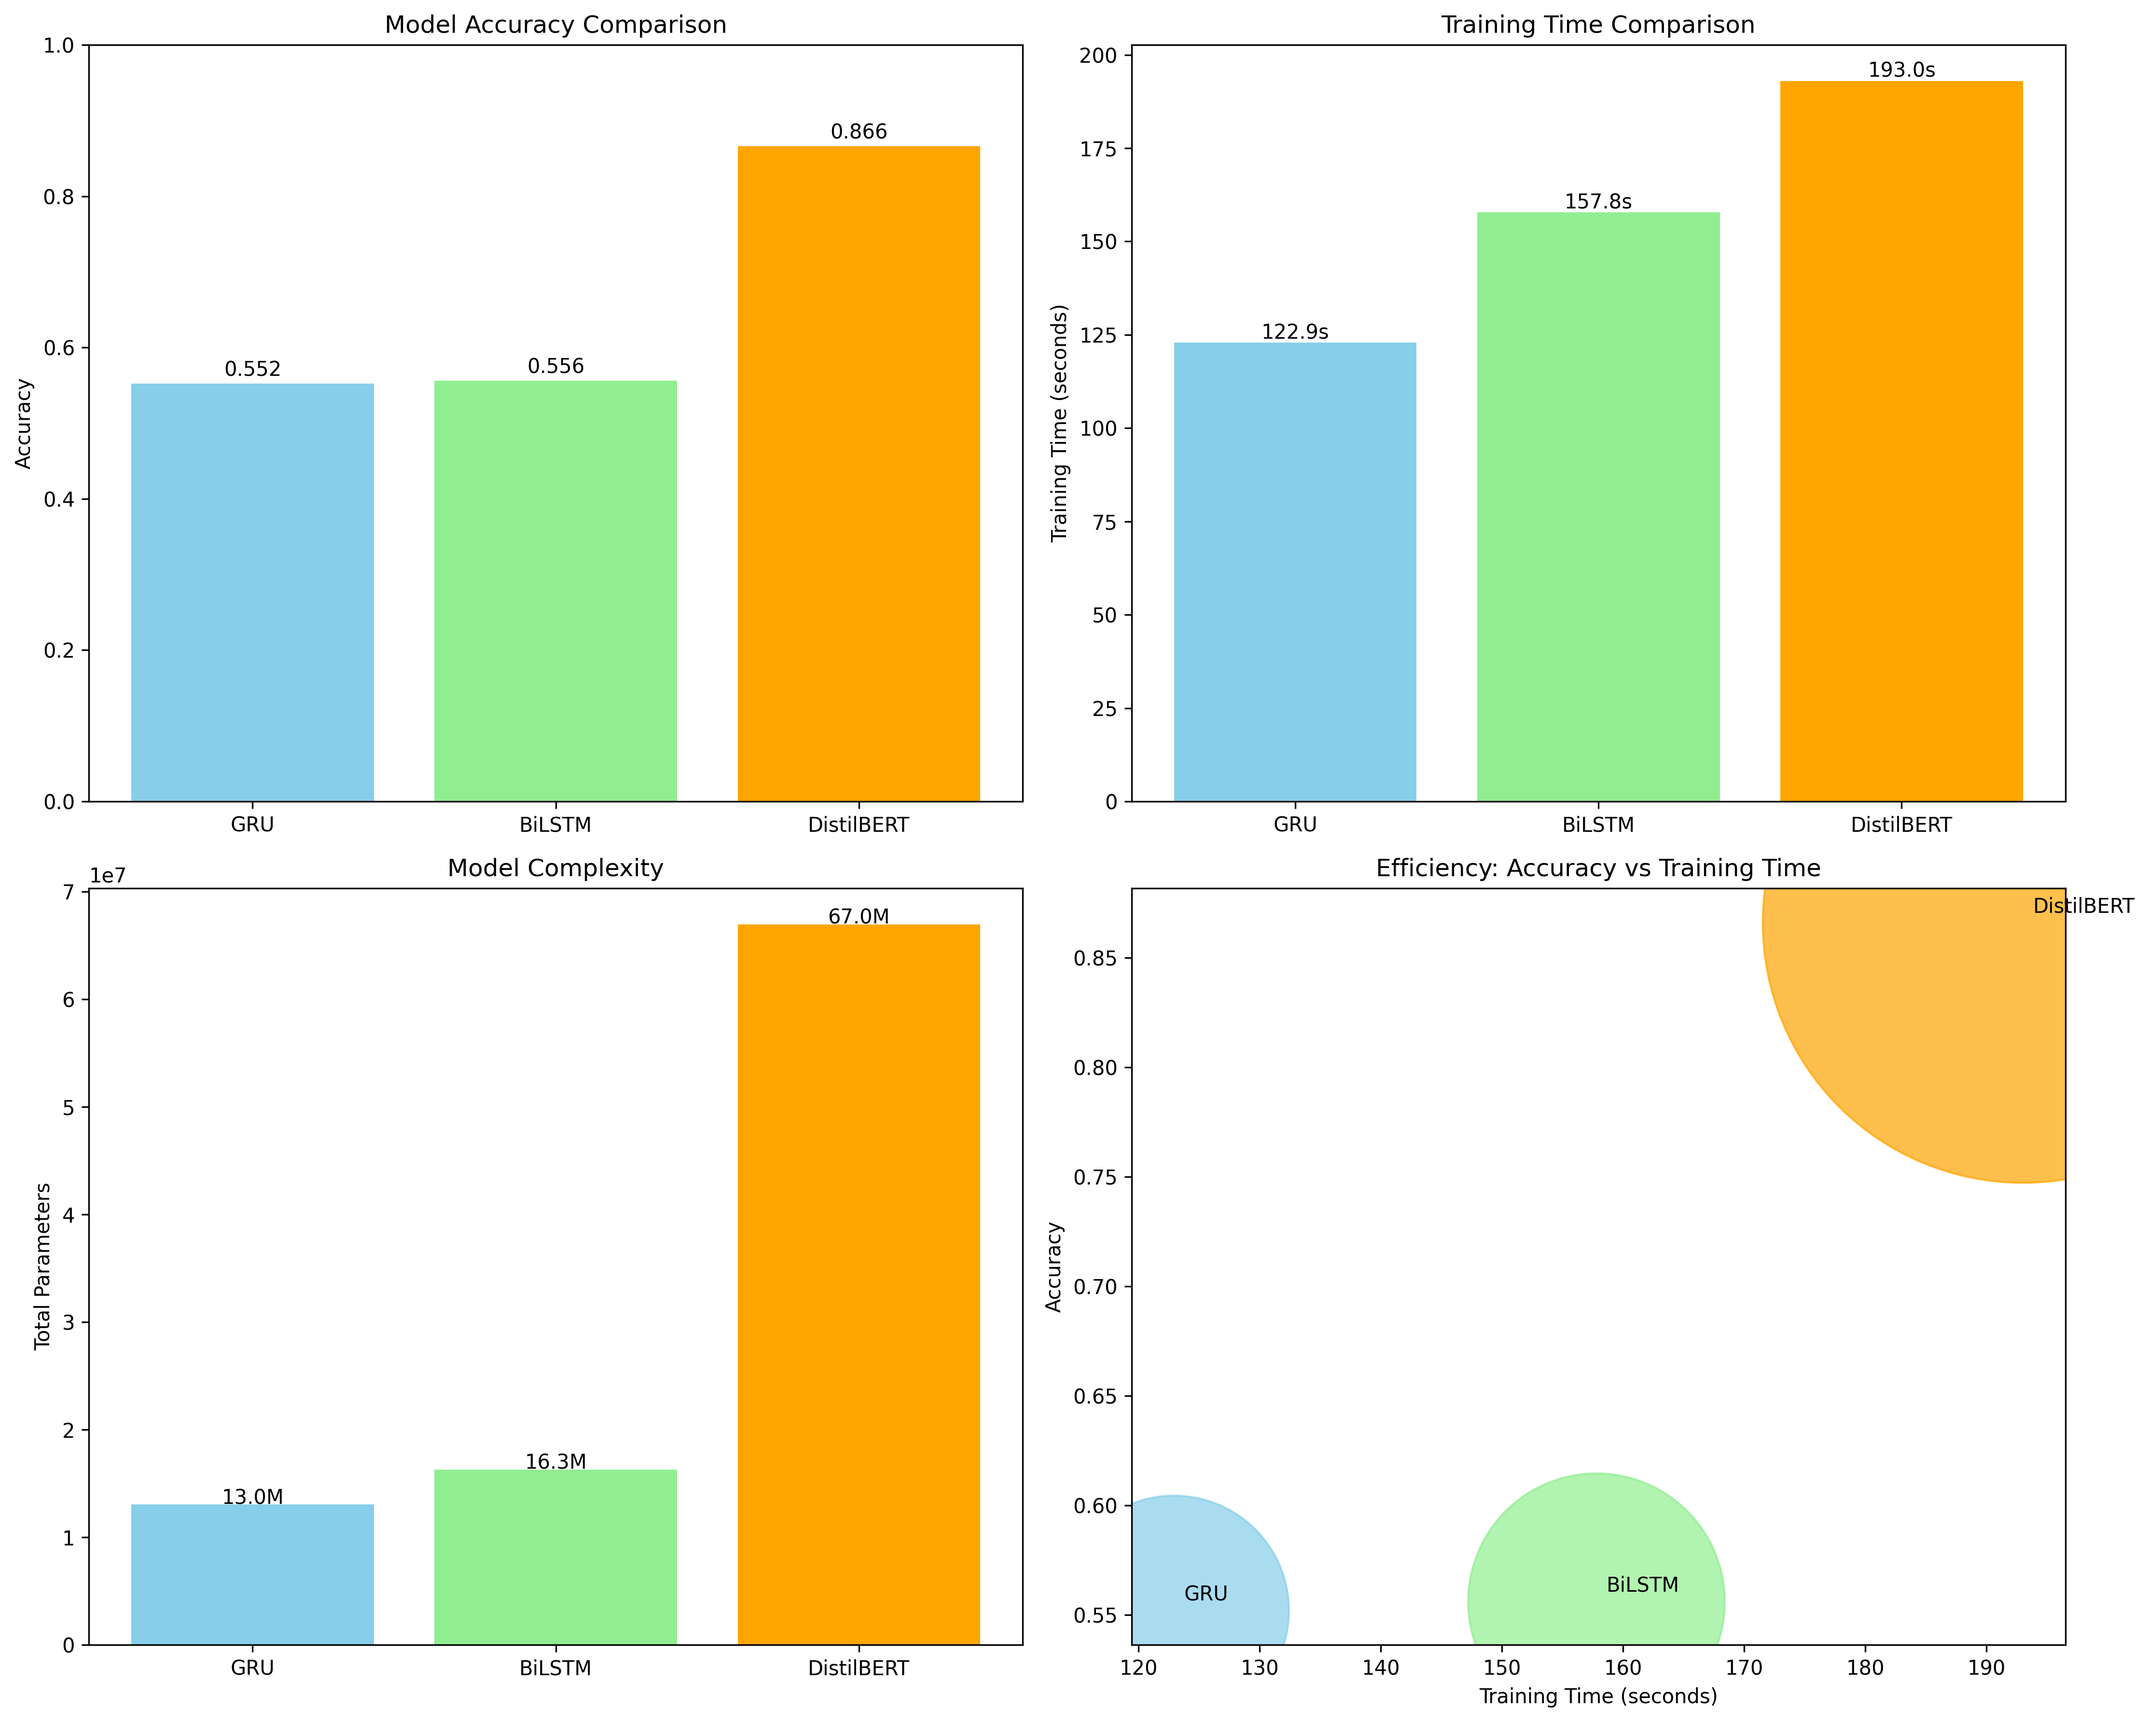
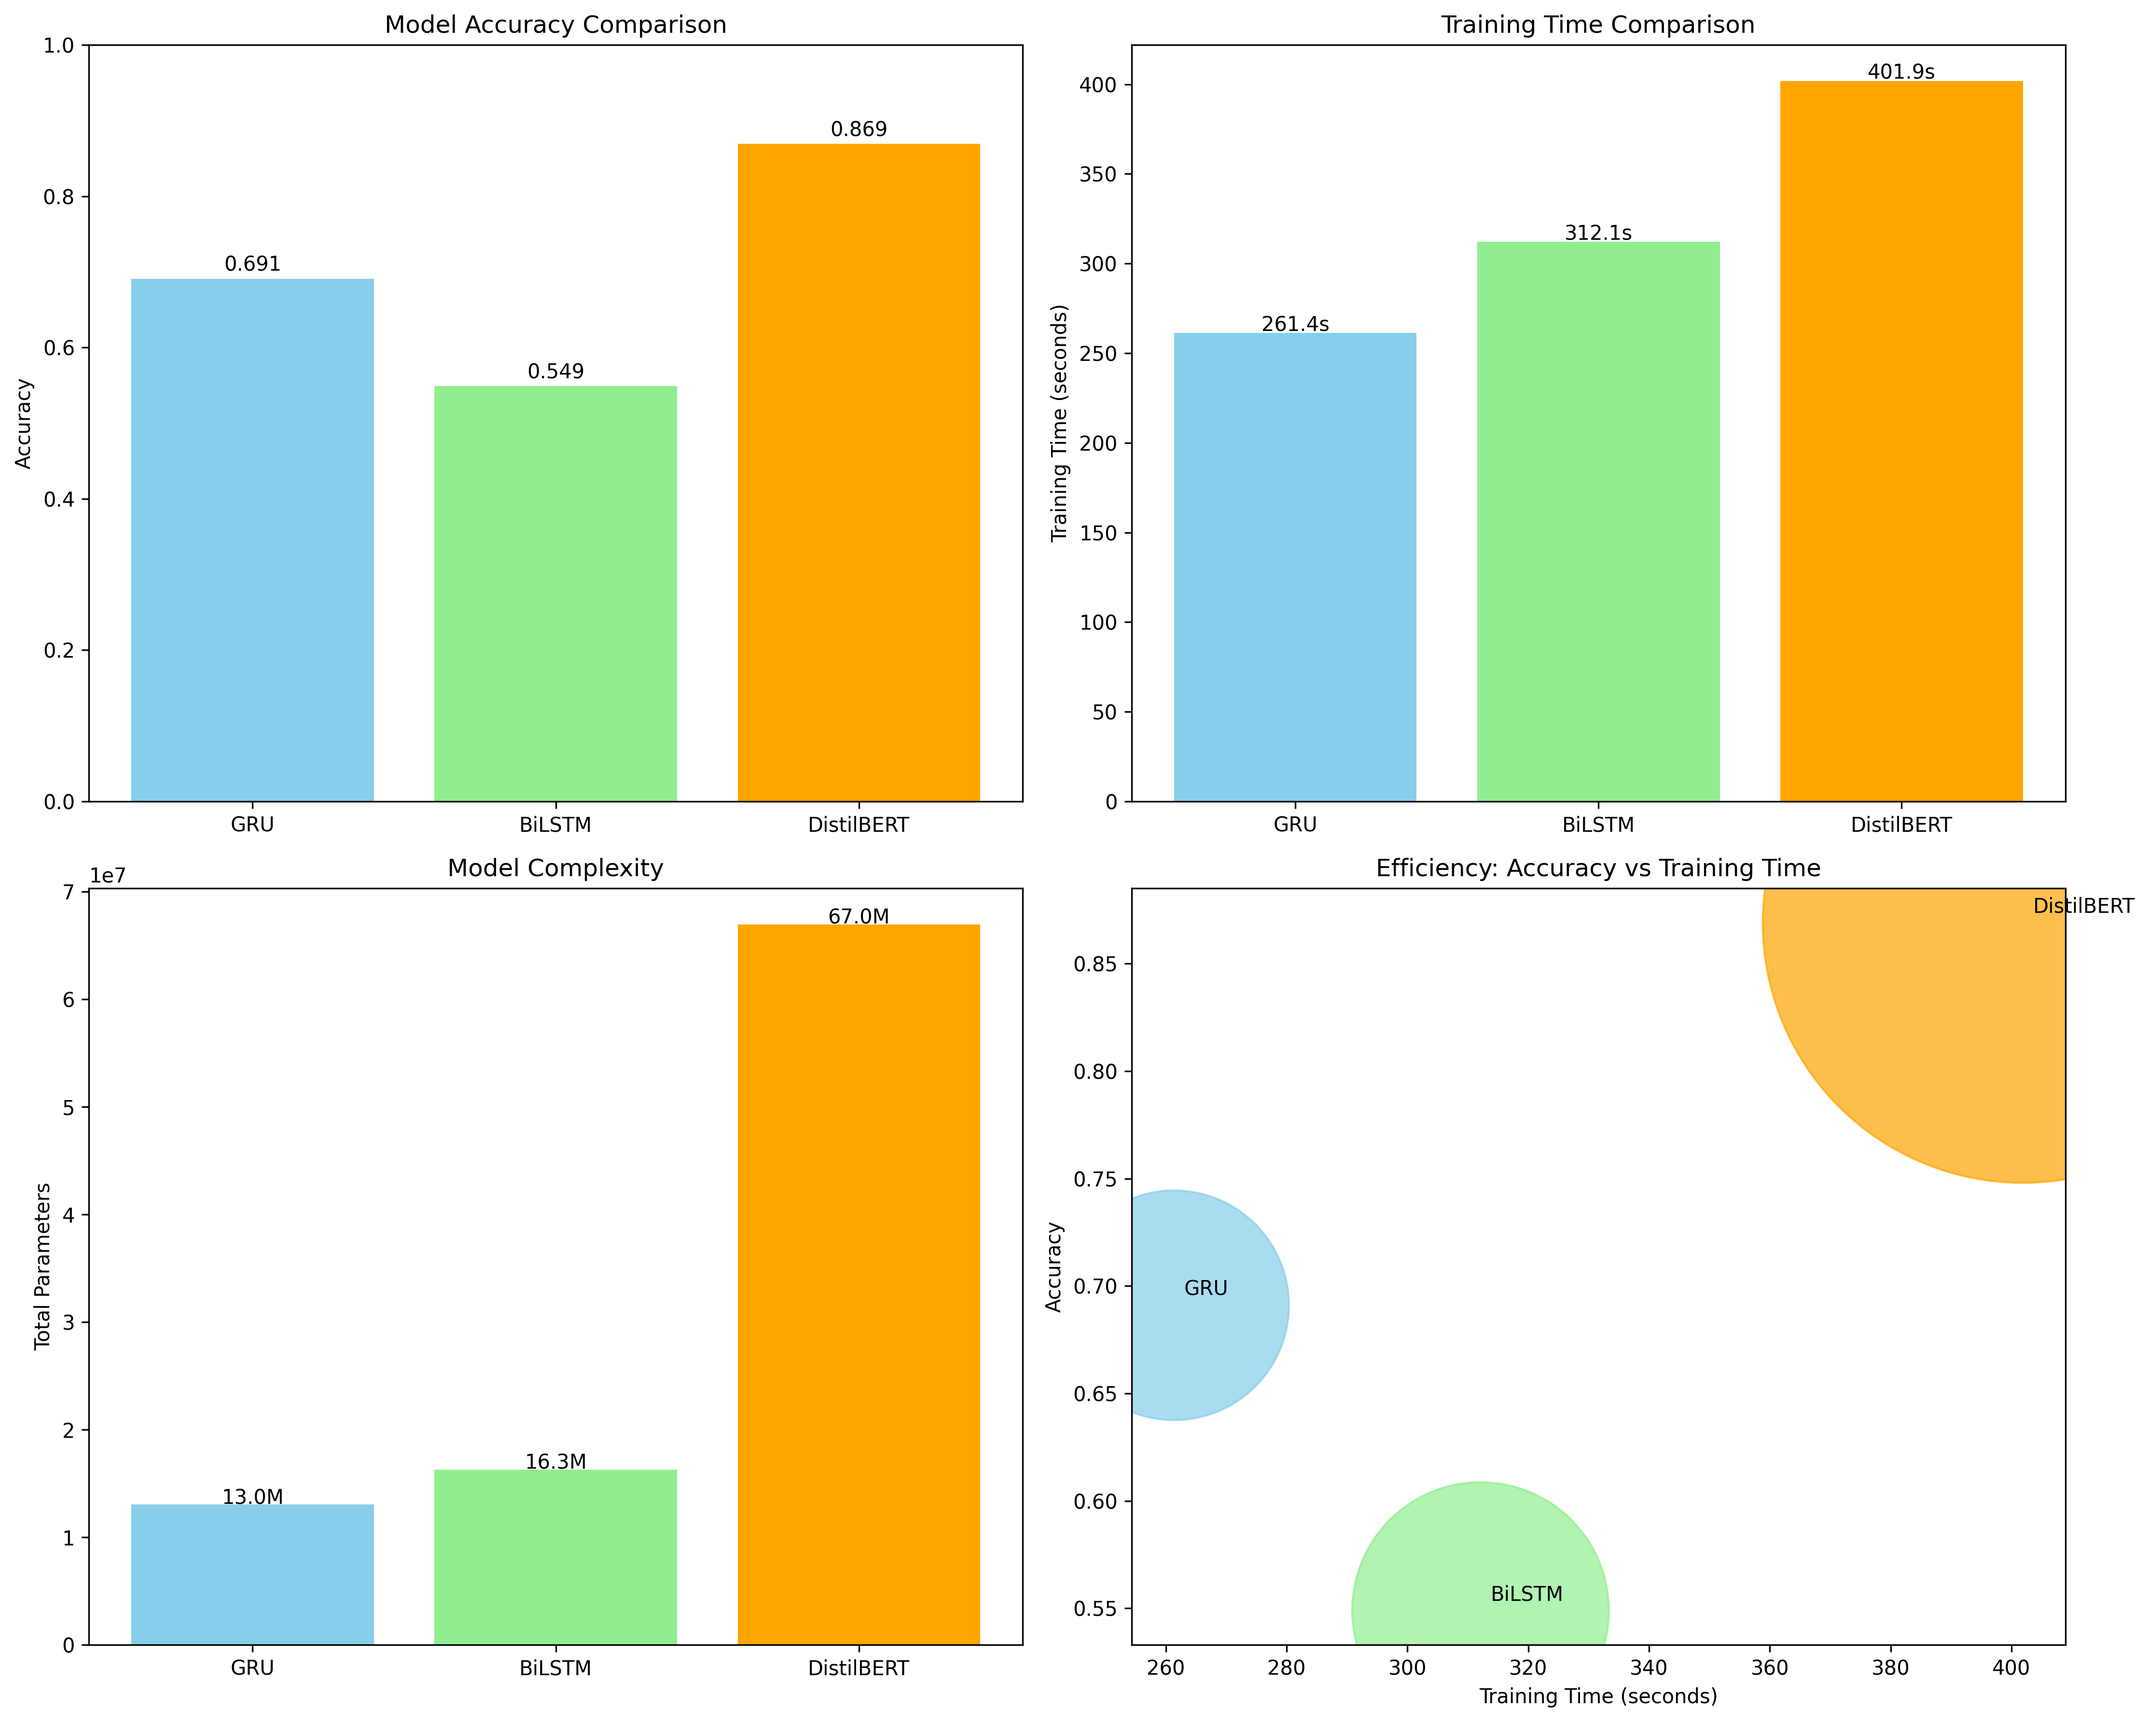
update

diff --git a/sentiment_model_comparison.py b/sentiment_model_comparison.py
@@ -12,7 +12,6 @@ import random
 from collections import Counter
 import time
 
-# Device
 device = torch.device("cuda" if torch.cuda.is_available() else "cpu")
 
 
@@ -149,7 +148,7 @@ class BiLSTMClassifier(nn.Module):
         return self.fc2(h)  # Return logits for classification
 
 
-def train_rnn(model: nn.Module, train_loader: DataLoader, epochs: int = 1) -> list[float]:
+def train_rnn(model: nn.Module, train_loader: DataLoader, epochs: int = 2) -> list[float]:
     """
     Train RNN model for sentiment classification.
     Args:
@@ -267,7 +266,7 @@ def run_transformer(model_name: str, train_texts: list[str], train_labels: list[
         output_dir="./results",  # Output directory
         per_device_train_batch_size=8,  # Training batch size
         per_device_eval_batch_size=8,  # Evaluation batch size
-        num_train_epochs=1,  # Number of training epochs
+        num_train_epochs=2,  # Number of training epochs
         eval_strategy="epoch",  # Evaluate at each epoch
         save_strategy="no",  # Don't save checkpoints
         logging_steps=50,  # Log every 50 steps
@@ -305,8 +304,7 @@ def save_epoch_accuracies(epoch_accuracies: dict, max_epochs: int) -> None:
     print("Saved results/epoch_accuracies.csv")
 
 
-def create_comprehensive_visualizations(results: dict, model_details: dict, epoch_accuracies: dict,
-                                        max_epochs: int) -> None:
+def create_comprehensive_visualizations(model_details: dict) -> None:
     """Create comprehensive model comparison visualizations."""
     # Create detailed results DataFrame
     detailed_results = []
@@ -329,6 +327,7 @@ def create_comprehensive_visualizations(results: dict, model_details: dict, epoc
     fig, axes = plt.subplots(2, 2, figsize=(15, 12))
 
     # 1. Accuracy Comparison
+    results = {name: details['accuracy'] for name, details in model_details.items()}
     axes[0, 0].bar(results.keys(), results.values(), color=['skyblue', 'lightgreen', 'orange'])
     axes[0, 0].set_ylim(0, 1)
     axes[0, 0].set_ylabel("Accuracy")
@@ -337,7 +336,7 @@ def create_comprehensive_visualizations(results: dict, model_details: dict, epoc
         axes[0, 0].text(i, v + 0.01, f"{v:.3f}", ha='center')
 
     # 2. Training Time Comparison
-    times = [model_details[name]['training_time'] for name in results.keys()]
+    times = [details['training_time'] for details in model_details.values()]
     axes[0, 1].bar(results.keys(), times, color=['skyblue', 'lightgreen', 'orange'])
     axes[0, 1].set_ylabel("Training Time (seconds)")
     axes[0, 1].set_title("Training Time Comparison")
@@ -345,7 +344,7 @@ def create_comprehensive_visualizations(results: dict, model_details: dict, epoc
         axes[0, 1].text(i, v + 1, f"{v:.1f}s", ha='center')
 
     # 3. Model Complexity (Parameters)
-    params = [model_details[name]['total_params'] for name in results.keys()]
+    params = [details['total_params'] for details in model_details.values()]
     param_labels = [f"{p / 1_000_000:.1f}M" for p in params]
     axes[1, 0].bar(results.keys(), params, color=['skyblue', 'lightgreen', 'orange'])
     axes[1, 0].set_ylabel("Total Parameters")
@@ -354,14 +353,13 @@ def create_comprehensive_visualizations(results: dict, model_details: dict, epoc
         axes[1, 0].text(i, v + 50000, f"{v / 1_000_000:.1f}M", ha='center')
 
     # 4. Efficiency: Accuracy vs Training Time
-    axes[1, 1].scatter(times, [model_details[name]['accuracy'] for name in results.keys()],
+    axes[1, 1].scatter(times, list(results.values()),
                        s=[p / 1000 for p in params], alpha=0.7, c=['skyblue', 'lightgreen', 'orange'])
     axes[1, 1].set_xlabel("Training Time (seconds)")
     axes[1, 1].set_ylabel("Accuracy")
     axes[1, 1].set_title("Efficiency: Accuracy vs Training Time")
     for i, name in enumerate(results.keys()):
-        axes[1, 1].annotate(name, (times[i], model_details[name]['accuracy']),
-                            xytext=(5, 5), textcoords='offset points')
+        axes[1, 1].annotate(name, (times[i], results[name]), xytext=(5, 5), textcoords='offset points')
 
     plt.tight_layout()
     plt.savefig("results/comprehensive_comparison.png", bbox_inches="tight", dpi=300)
@@ -369,7 +367,7 @@ def create_comprehensive_visualizations(results: dict, model_details: dict, epoc
     print("Saved results/comprehensive_comparison.png")
 
 
-def create_epoch_accuracy_plot(epoch_accuracies: dict, results: dict, max_epochs: int) -> None:
+def create_epoch_accuracy_plot(epoch_accuracies: dict, max_epochs: int) -> None:
     """Create combined accuracy vs epochs plot."""
     print("Creating combined accuracy vs epochs plot...")
     plt.figure(figsize=(12, 8))
@@ -439,7 +437,7 @@ def main():
 
         # Measure training time
         start_time = time.time()
-        epoch_acc = train_rnn(model, train_loader, epochs=1)
+        epoch_acc = train_rnn(model, train_loader, epochs=2)
         training_time = time.time() - start_time
 
         # Evaluate model
@@ -487,8 +485,8 @@ def main():
     save_epoch_accuracies(epoch_accuracies, max_epochs)
 
     # Step 4: Create visualizations
-    create_comprehensive_visualizations(results, model_details, epoch_accuracies, max_epochs)
-    create_epoch_accuracy_plot(epoch_accuracies, results, max_epochs)
+    create_comprehensive_visualizations(model_details)
+    create_epoch_accuracy_plot(epoch_accuracies, max_epochs)
 
     # Print summary
     print_model_summary(model_details)
